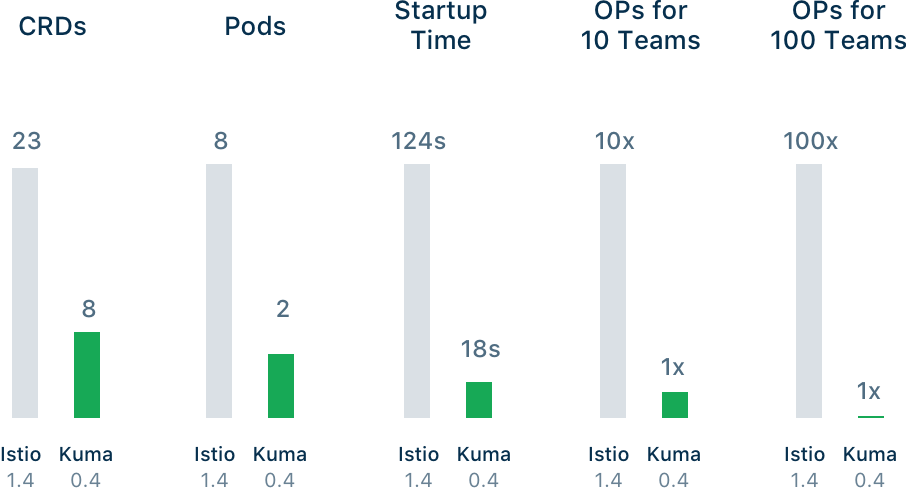
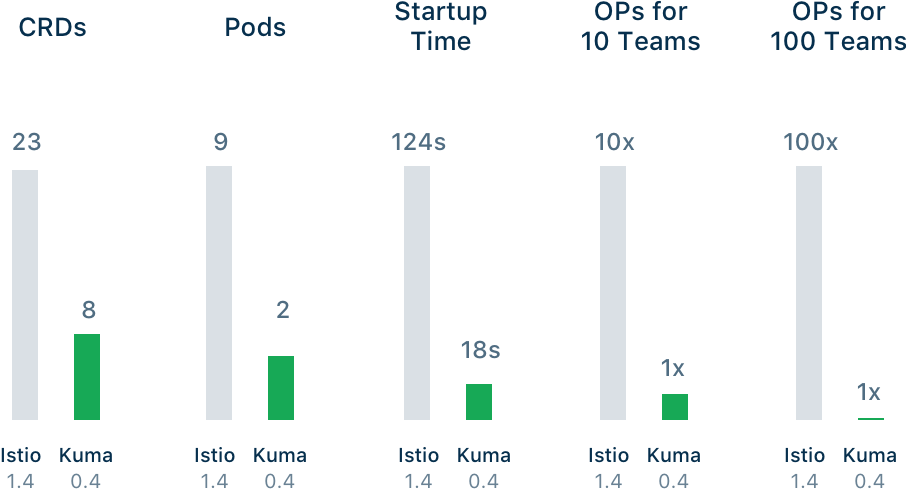
optimized the animations. made the element location detection function into a reusable mixin. update the pod count on the homepage speed chart.

diff --git a/docs/.vuepress/theme/components/custom/NewsletterWaves.vue b/docs/.vuepress/theme/components/custom/NewsletterWaves.vue
@@ -62,6 +62,7 @@
 
 <script>
 import animejs from "animejs"
+import { inView } from "../../util"
 
 export default {
   data() {
@@ -71,38 +72,21 @@ export default {
   },
   methods: {
     animate() {
+      // settings
       const container = this.$refs.wavesCenterOut
-
-      // path groups
       const rightGroup = '.wave-group--1 path, .wave-group--2 path, .wave-group--5 path'
       const leftGroup = '.wave-group--3 path, .wave-group--4 path, .wave-group--6 path'
-
-      // settings
-      const easing = 'cubicBezier(.66,.3,0,.94)'
       const delayAmt = 100
-      const duration = 800
-      const direction = 'normal'
       const strokeOffset = [animejs.setDashoffset, 0]
       
       const tl = animejs.timeline({
-        easing: easing,
-        duration: duration,
-        direction: direction
+        easing: 'cubicBezier(.66,.3,0,.94)',
+        duration: 800,
+        direction: 'normal'
       })
-
-      // simple function for detecting when element is in viewport
-      const inView = (element) => {
-        const elementHeight = element.clientHeight
-        const windowHeight = window.innerHeight
-        const scrollY = window.scrollY || window.pageYOffset
-        const scrollPosition = scrollY + windowHeight
-        const elementPosition = element.getBoundingClientRect().top + scrollY + elementHeight
-
-        return scrollPosition > elementPosition ? true : false
-      }
       
       if (window.innerWidth >= 820) {
-        if ( inView(this.$refs.wavesCenterOut) && !this.hasAnimated ) {
+        if ( inView(container) && !this.hasAnimated ) {
           this.hasAnimated = true
 
           // right line group
@@ -121,13 +105,12 @@ export default {
               strokeDashoffset: strokeOffset,
               delay: (el, i) => i * delayAmt
             }, '-=1200')
-
-          // console.log('running animation...')
         }
       }
     }
   },
   mounted() {
+    // TODO debounce this
     window.addEventListener('scroll', this.animate)
     this.animate()
   },

diff --git a/docs/.vuepress/theme/components/custom/PageMastheadWaves.vue b/docs/.vuepress/theme/components/custom/PageMastheadWaves.vue
@@ -46,31 +46,29 @@ import animejs from "animejs"
 export default {
   methods: {
     animate() {
-      const targetEl = '.waves--type-1 svg path'
-      const easing = 'easeInOutSine'
+      const strokeOffset = [animejs.setDashoffset, 0]
       const delayAmt = 100
-      const duration = 800
 
       const tl = animejs.timeline({
-        easing: easing,
-        duration: duration,
+        easing: 'easeInOutSine',
+        duration: 800,
         direction: 'normal'
       })
 
       tl
         .add({
           targets: '.waves-group-1 path',
-          strokeDashoffset: [animejs.setDashoffset, 0],
+          strokeDashoffset: strokeOffset,
           delay: (el, i) => i * delayAmt
         }, '+=850')
         .add({
           targets: '.waves-group-2 path',
-          strokeDashoffset: [animejs.setDashoffset, 0],
+          strokeDashoffset: strokeOffset,
           delay: (el, i) => i * delayAmt
         }, '-=600')
         .add({
           targets: '.waves-group-3 path',
-          strokeDashoffset: [animejs.setDashoffset, 0],
+          strokeDashoffset: strokeOffset,
           delay: (el, i) => i * delayAmt
         }, '-=600')
     }
@@ -82,7 +80,7 @@ export default {
 </script>
 
 <style lang="scss" scoped>
-svg {
+.waves--type-1 {
   
 }
 </style>

diff --git a/docs/.vuepress/theme/util/index.js b/docs/.vuepress/theme/util/index.js
@@ -208,6 +208,24 @@ export function resolveMatchingConfig (regularPath, config) {
   return {}
 }
 
+/**
+ * Detects when an element is in view.
+ * Used for triggering a function or other action
+ * when the user scrolls the target element into view.
+ * 
+ * @param { El } el 
+ * @returns { Boolean }
+ */
+export function inView(el) {
+  const elementHeight = el.clientHeight
+  const windowHeight = window.innerHeight
+  const scrollY = window.scrollY || window.pageYOffset
+  const scrollPosition = scrollY + windowHeight
+  const elementPosition = el.getBoundingClientRect().top + scrollY + elementHeight
+
+  return scrollPosition > elementPosition ? true : false
+}
+
 function ensureEndingSlash (path) {
   return /(\.html|\/)$/.test(path)
     ? path
